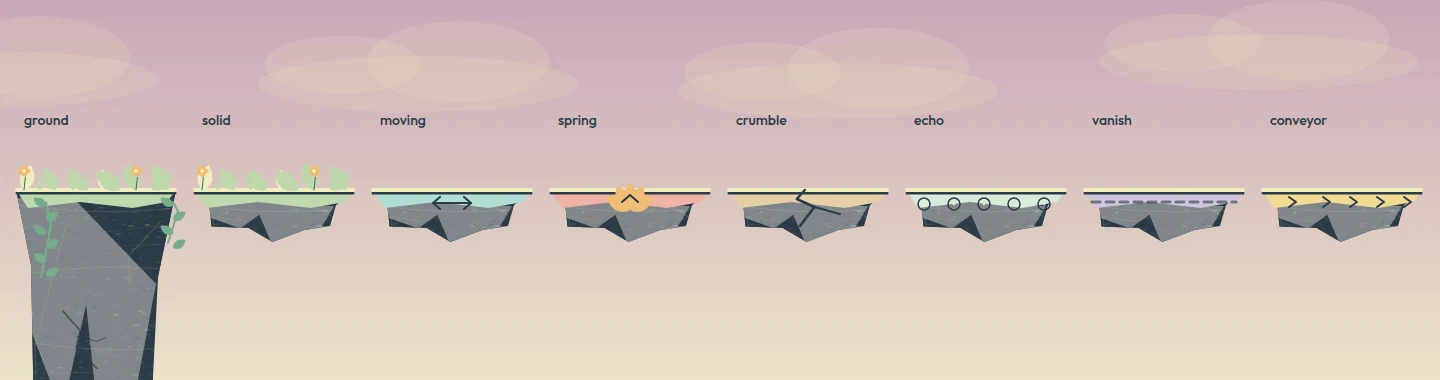
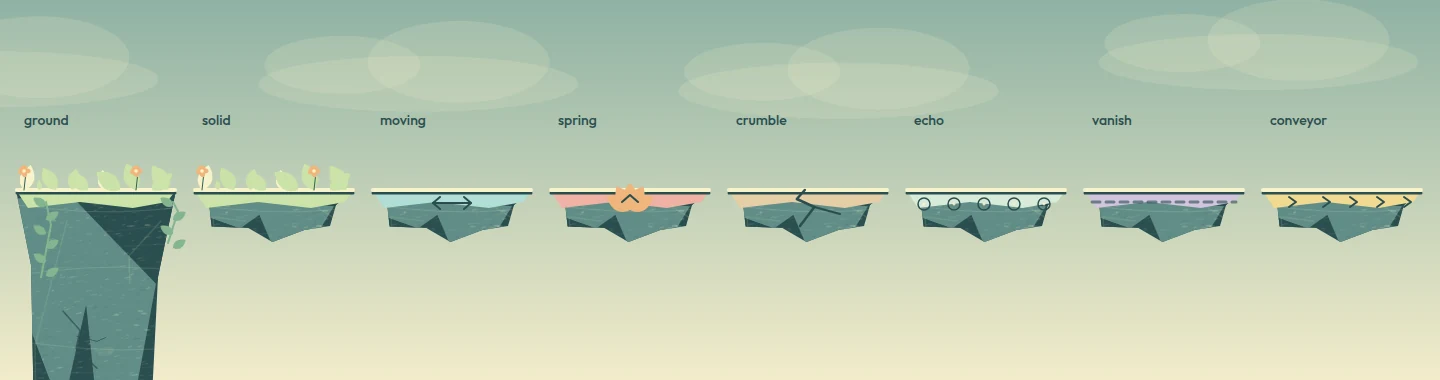
Deux lieux retrouvent leur ciel
Issue #3, seconde moitié — la part qui était vraiment une répétition.

Le petit astre égaré et Là où pleut la lumière partageaient la palette
`secret`, celle du jardin oublié et de l'observatoire : même ciel rose, mêmes
roches, mêmes rives, pour deux lieux qui ne racontent pas la même chose.

Chacun a maintenant la sienne. `dusk` pour l'astre : un crépuscule bleu qui
descend vers l'or, pour que la petite lumière soit enfin la chose la plus
claire de l'écran. `rain` pour la pluie : une averse verte et dorée. Les six
lieux ont donc six palettes distinctes, en jour comme en nuit.

Ce ne sont que des données de palette : aucune géométrie ne bouge, aucun
décor authored n'est touché. Les vignettes de docs/platforms/ sont
régénérées et passent les mêmes contrôles de contraste que les autres.

Le reste du retour — « c'est le même stage répété » — n'est pas corrigé ici.
Quatre des six lieux se jouent avec le même verbe, appeler au bon endroit sur
une bande de sol plat : c'est structurel, pas cosmétique, et cela demande une
décision de conception avant d'écrire quoi que ce soit. Trois pistes sont
posées dans docs/iteration-12/.

Claude-Session: https://claude.ai/code/session_013RxBaqYuP1ButwNHPJ2sxF

diff --git a/LUMEN.html b/LUMEN.html
@@ -4540,7 +4540,7 @@ window.LumenI18n.add([
     },
     {
       id: 13, key: 'astre-a-guider', journeyAct: 1, name: 'Le petit astre égaré',
-      subtitle: 'Il avance là où les fleurs lui répondent.', theme: 'secret', width: 3100, height: 900,
+      subtitle: 'Il avance là où les fleurs lui répondent.', theme: 'dusk', width: 3100, height: 900,
       medalTargets: { gold: 100, silver: 155 }, spawn: { x: 100, y: 554 }, exit: { ...exit(3100), open: false },
       goal: 'Éclaire le chemin du petit astre jusqu’à sa maison.',
       place: { kind: 'escort', startX: 250, starY: 550, endX: 2880, speed: 95, reach: 355,
@@ -4667,7 +4667,7 @@ window.LumenI18n.add([
     },
     {
       id: 17, key: 'pluie-de-lumiere', journeyAct: 3, name: 'Là où pleut la lumière',
-      subtitle: 'La pluie fait pousser le chemin que tu attends.', theme: 'secret', width: 3150, height: 900,
+      subtitle: 'La pluie fait pousser le chemin que tu attends.', theme: 'rain', width: 3150, height: 900,
       medalTargets: { gold: 105, silver: 170 }, spawn: { x: 100, y: 554 }, exit: exit(3150),
       goal: 'Guide la pluie devant toi pour faire pousser des pas temporaires.',
       place: { kind: 'rain', startX: 450, life: 8,
@@ -5802,6 +5802,17 @@ window.LumenI18n.add([
     // Un puits de racines, et non le ciel ouvert : l'écorce est proche, la
     // lumière vient d'en haut. Les trois bandes vont du fond sombre vers la
     // couronne ; `rootShaft` les fait glisser avec la montée.
+    // Deux lieux partageaient le ciel rose de `secret` : ils ont maintenant le
+    // leur. Un crépuscule bleu pour que le petit astre soit la chose la plus
+    // claire de l'écran, une averse verte et dorée pour la pluie de lumière.
+    dusk: { ...THEMES.sunset, sky: ['#5b7f9e', '#93aec0', '#f0d2ad'], sea: '#54848f',
+      far: '#7a95a3', middle: '#456f7e', rock: '#2f5566', shade: '#213e4d', facet: '#517483',
+      grass: '#9fcbbe', rim: '#f6edc3', leaf: '#2c5a5e', lightLeaf: '#6fa094', coral: '#f7cf8c',
+      stone: '#dcdcd2' },
+    rain: { ...THEMES.noon, sky: ['#8fb2a4', '#c2d8c2', '#f2ecca'], sea: '#7aa9a3',
+      far: '#94b0a8', middle: '#5b8a84', rock: '#3f6a68', shade: '#2b4e4f', facet: '#618d87',
+      grass: '#cbe3a8', rim: '#f7f3cc', leaf: '#2f6155', lightLeaf: '#83b58f', coral: '#f0b57c',
+      stone: '#e6e6d6' },
     shaft: { ...THEMES.dawn, sky: ['#dbe7c2', '#8ea78c', '#3e4f4a'], sea: '#3c4f4a',
       far: '#54655c', middle: '#495a51', rock: '#3a4a45', shade: '#25322f', facet: '#5b6f62',
       grass: '#c2dca0', rim: '#f2f6cf', leaf: '#33584a', lightLeaf: '#87ab7e', coral: '#eaa76e',
@@ -5823,6 +5834,14 @@ window.LumenI18n.add([
       rock: '#414859', shade: '#2c3443', facet: '#716e7f', grass: '#b6c99f', rim: '#f1e6b1', coral: '#f2b19e' },
     eclipse: { ...NIGHT_THEMES.dawn, sky: ['#152b33', '#355058', '#708883'], sea: '#38616b',
       rock: '#294550', shade: '#1c303c', facet: '#506c77', grass: '#96baa5', rim: '#e6dfb3', coral: '#e9b78d' },
+    dusk: { ...NIGHT_THEMES.sunset, sky: ['#1b3348', '#3a5568', '#8b7d78'], sea: '#2f5b67',
+      far: '#566f7c', middle: '#26495a', rock: '#22404e', shade: '#182e3a', facet: '#3f5f6d',
+      grass: '#84b3a9', rim: '#e7e0b8', leaf: '#2b4f56', lightLeaf: '#65917f', coral: '#f6cd93',
+      stone: '#b6c0be', cloud: '#7e97a4' },
+    rain: { ...NIGHT_THEMES.noon, sky: ['#1a3130', '#375550', '#7e9082'], sea: '#3a6b68',
+      far: '#65817a', middle: '#2f5754', rock: '#264946', shade: '#1a3534', facet: '#466a66',
+      grass: '#9dc796', rim: '#e4eec0', leaf: '#28534b', lightLeaf: '#6d9c7c', coral: '#eaae7c',
+      stone: '#bcc6b6', cloud: '#96ada0' },
     shaft: { ...NIGHT_THEMES.dawn, sky: ['#5e7563', '#33463f', '#131c1c'], sea: '#182220',
       far: '#25322d', middle: '#1f2b27', rock: '#1a2422', shade: '#101715', facet: '#2f3f37',
       grass: '#8fb47c', rim: '#d9e6b4', leaf: '#1e3a31', lightLeaf: '#5b7d60', coral: '#e0a173',

diff --git a/js/world-art.js b/js/world-art.js
@@ -36,6 +36,17 @@
     // Un puits de racines, et non le ciel ouvert : l'écorce est proche, la
     // lumière vient d'en haut. Les trois bandes vont du fond sombre vers la
     // couronne ; `rootShaft` les fait glisser avec la montée.
+    // Deux lieux partageaient le ciel rose de `secret` : ils ont maintenant le
+    // leur. Un crépuscule bleu pour que le petit astre soit la chose la plus
+    // claire de l'écran, une averse verte et dorée pour la pluie de lumière.
+    dusk: { ...THEMES.sunset, sky: ['#5b7f9e', '#93aec0', '#f0d2ad'], sea: '#54848f',
+      far: '#7a95a3', middle: '#456f7e', rock: '#2f5566', shade: '#213e4d', facet: '#517483',
+      grass: '#9fcbbe', rim: '#f6edc3', leaf: '#2c5a5e', lightLeaf: '#6fa094', coral: '#f7cf8c',
+      stone: '#dcdcd2' },
+    rain: { ...THEMES.noon, sky: ['#8fb2a4', '#c2d8c2', '#f2ecca'], sea: '#7aa9a3',
+      far: '#94b0a8', middle: '#5b8a84', rock: '#3f6a68', shade: '#2b4e4f', facet: '#618d87',
+      grass: '#cbe3a8', rim: '#f7f3cc', leaf: '#2f6155', lightLeaf: '#83b58f', coral: '#f0b57c',
+      stone: '#e6e6d6' },
     shaft: { ...THEMES.dawn, sky: ['#dbe7c2', '#8ea78c', '#3e4f4a'], sea: '#3c4f4a',
       far: '#54655c', middle: '#495a51', rock: '#3a4a45', shade: '#25322f', facet: '#5b6f62',
       grass: '#c2dca0', rim: '#f2f6cf', leaf: '#33584a', lightLeaf: '#87ab7e', coral: '#eaa76e',
@@ -57,6 +68,14 @@
       rock: '#414859', shade: '#2c3443', facet: '#716e7f', grass: '#b6c99f', rim: '#f1e6b1', coral: '#f2b19e' },
     eclipse: { ...NIGHT_THEMES.dawn, sky: ['#152b33', '#355058', '#708883'], sea: '#38616b',
       rock: '#294550', shade: '#1c303c', facet: '#506c77', grass: '#96baa5', rim: '#e6dfb3', coral: '#e9b78d' },
+    dusk: { ...NIGHT_THEMES.sunset, sky: ['#1b3348', '#3a5568', '#8b7d78'], sea: '#2f5b67',
+      far: '#566f7c', middle: '#26495a', rock: '#22404e', shade: '#182e3a', facet: '#3f5f6d',
+      grass: '#84b3a9', rim: '#e7e0b8', leaf: '#2b4f56', lightLeaf: '#65917f', coral: '#f6cd93',
+      stone: '#b6c0be', cloud: '#7e97a4' },
+    rain: { ...NIGHT_THEMES.noon, sky: ['#1a3130', '#375550', '#7e9082'], sea: '#3a6b68',
+      far: '#65817a', middle: '#2f5754', rock: '#264946', shade: '#1a3534', facet: '#466a66',
+      grass: '#9dc796', rim: '#e4eec0', leaf: '#28534b', lightLeaf: '#6d9c7c', coral: '#eaae7c',
+      stone: '#bcc6b6', cloud: '#96ada0' },
     shaft: { ...NIGHT_THEMES.dawn, sky: ['#5e7563', '#33463f', '#131c1c'], sea: '#182220',
       far: '#25322d', middle: '#1f2b27', rock: '#1a2422', shade: '#101715', facet: '#2f3f37',
       grass: '#8fb47c', rim: '#d9e6b4', leaf: '#1e3a31', lightLeaf: '#5b7d60', coral: '#e0a173',

diff --git a/js/levels.js b/js/levels.js
@@ -743,7 +743,7 @@
     },
     {
       id: 13, key: 'astre-a-guider', journeyAct: 1, name: 'Le petit astre égaré',
-      subtitle: 'Il avance là où les fleurs lui répondent.', theme: 'secret', width: 3100, height: 900,
+      subtitle: 'Il avance là où les fleurs lui répondent.', theme: 'dusk', width: 3100, height: 900,
       medalTargets: { gold: 100, silver: 155 }, spawn: { x: 100, y: 554 }, exit: { ...exit(3100), open: false },
       goal: 'Éclaire le chemin du petit astre jusqu’à sa maison.',
       place: { kind: 'escort', startX: 250, starY: 550, endX: 2880, speed: 95, reach: 355,
@@ -870,7 +870,7 @@
     },
     {
       id: 17, key: 'pluie-de-lumiere', journeyAct: 3, name: 'Là où pleut la lumière',
-      subtitle: 'La pluie fait pousser le chemin que tu attends.', theme: 'secret', width: 3150, height: 900,
+      subtitle: 'La pluie fait pousser le chemin que tu attends.', theme: 'rain', width: 3150, height: 900,
       medalTargets: { gold: 105, silver: 170 }, spawn: { x: 100, y: 554 }, exit: exit(3150),
       goal: 'Guide la pluie devant toi pour faire pousser des pas temporaires.',
       place: { kind: 'rain', startX: 450, life: 8,
